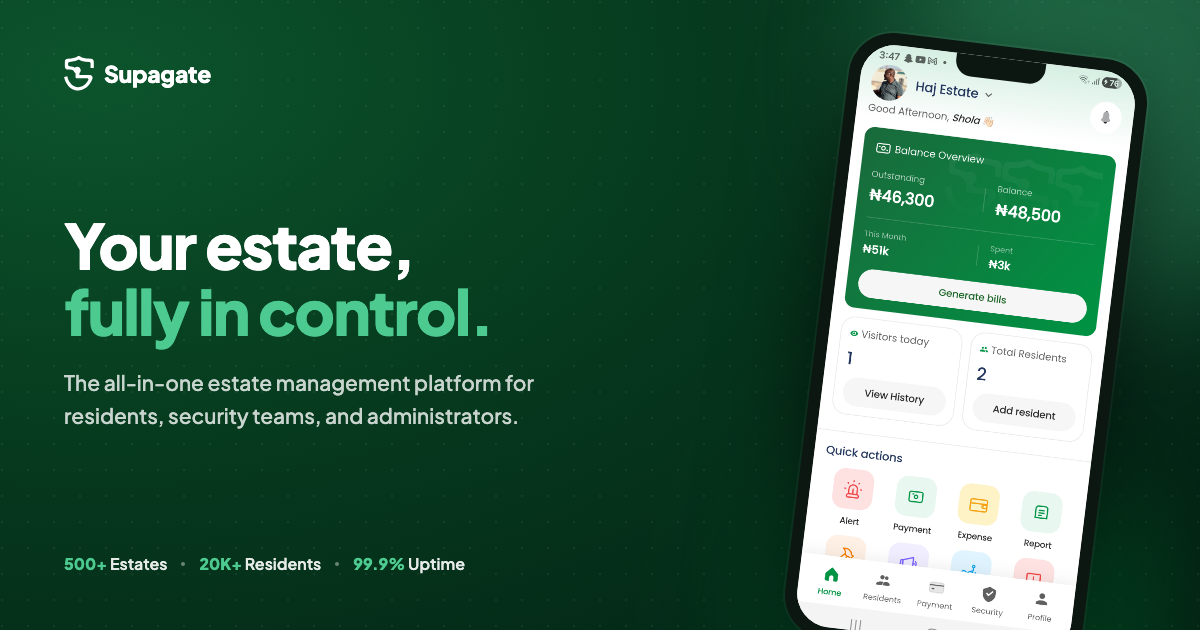
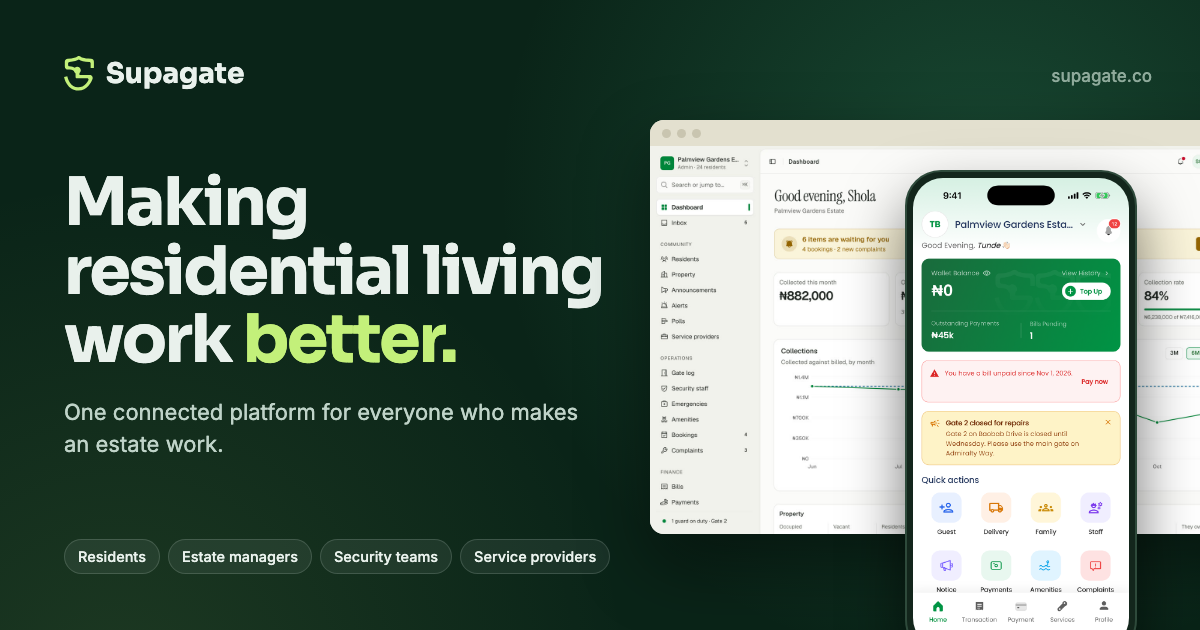
feat: update Open Graph and Twitter card images to version 2 across multiple pages

diff --git a/index.html b/index.html
@@ -13,12 +13,12 @@
     <meta property="og:url" content="https://supagate.co/" />
     <meta property="og:title" content="Supagate — Making Residential Living Work Better" />
     <meta property="og:description" content="Supagate connects residents, estate managers, security teams and service providers on one platform, making everyday community living more convenient, organised and secure." />
-    <meta property="og:image" content="https://supagate.co/og-image.png" />
+    <meta property="og:image" content="https://supagate.co/og-image.png?v=2" />
 
     <meta name="twitter:card" content="summary_large_image" />
     <meta name="twitter:title" content="Supagate — Making Residential Living Work Better" />
     <meta name="twitter:description" content="Supagate connects residents, estate managers, security teams and service providers on one platform, making everyday community living more convenient, organised and secure." />
-    <meta name="twitter:image" content="https://supagate.co/og-image.png" />
+    <meta name="twitter:image" content="https://supagate.co/og-image.png?v=2" />
 
     <link rel="preconnect" href="https://fonts.googleapis.com" />
     <link rel="preconnect" href="https://fonts.gstatic.com" crossorigin />

diff --git a/residents.html b/residents.html
@@ -13,12 +13,12 @@
     <meta property="og:url" content="https://supagate.co/residents" />
     <meta property="og:title" content="For Residents — Supagate" />
     <meta property="og:description" content="Invite guests, get gate notifications, pay community dues, report concerns and stay informed — Supagate makes everyday living in your community easier." />
-    <meta property="og:image" content="https://supagate.co/og-image.png" />
+    <meta property="og:image" content="https://supagate.co/og-image.png?v=2" />
 
     <meta name="twitter:card" content="summary_large_image" />
     <meta name="twitter:title" content="For Residents — Supagate" />
     <meta name="twitter:description" content="Invite guests, get gate notifications, pay community dues, report concerns and stay informed — Supagate makes everyday living in your community easier." />
-    <meta name="twitter:image" content="https://supagate.co/og-image.png" />
+    <meta name="twitter:image" content="https://supagate.co/og-image.png?v=2" />
 
     <link rel="preconnect" href="https://fonts.googleapis.com" />
     <link rel="preconnect" href="https://fonts.gstatic.com" crossorigin />

diff --git a/about.html b/about.html
@@ -13,12 +13,12 @@
     <meta property="og:url" content="https://supagate.co/about" />
     <meta property="og:title" content="About Us — Supagate" />
     <meta property="og:description" content="About Supagate — a smart residential community platform making everyday living in managed communities safer, simpler and more connected." />
-    <meta property="og:image" content="https://supagate.co/og-image.png" />
+    <meta property="og:image" content="https://supagate.co/og-image.png?v=2" />
 
     <meta name="twitter:card" content="summary_large_image" />
     <meta name="twitter:title" content="About Us — Supagate" />
     <meta name="twitter:description" content="About Supagate — a smart residential community platform making everyday living in managed communities safer, simpler and more connected." />
-    <meta name="twitter:image" content="https://supagate.co/og-image.png" />
+    <meta name="twitter:image" content="https://supagate.co/og-image.png?v=2" />
 
     <link rel="preconnect" href="https://fonts.googleapis.com" />
     <link rel="preconnect" href="https://fonts.gstatic.com" crossorigin />

diff --git a/security-teams.html b/security-teams.html
@@ -13,12 +13,12 @@
     <meta property="og:url" content="https://supagate.co/security-teams" />
     <meta property="og:title" content="For Security Teams — Supagate" />
     <meta property="og:description" content="Digital visitor verification, electronic entry and exit records and better communication with residents and management." />
-    <meta property="og:image" content="https://supagate.co/og-image.png" />
+    <meta property="og:image" content="https://supagate.co/og-image.png?v=2" />
 
     <meta name="twitter:card" content="summary_large_image" />
     <meta name="twitter:title" content="For Security Teams — Supagate" />
     <meta name="twitter:description" content="Digital visitor verification, electronic entry and exit records and better communication with residents and management." />
-    <meta name="twitter:image" content="https://supagate.co/og-image.png" />
+    <meta name="twitter:image" content="https://supagate.co/og-image.png?v=2" />
 
     <link rel="preconnect" href="https://fonts.googleapis.com" />
     <link rel="preconnect" href="https://fonts.gstatic.com" crossorigin />

diff --git a/property-developers.html b/property-developers.html
@@ -13,12 +13,12 @@
     <meta property="og:url" content="https://supagate.co/property-developers" />
     <meta property="og:title" content="For Property Developers — Supagate" />
     <meta property="og:description" content="Introduce digital community management from day one and offer buyers a better living experience with Supagate." />
-    <meta property="og:image" content="https://supagate.co/og-image.png" />
+    <meta property="og:image" content="https://supagate.co/og-image.png?v=2" />
 
     <meta name="twitter:card" content="summary_large_image" />
     <meta name="twitter:title" content="For Property Developers — Supagate" />
     <meta name="twitter:description" content="Introduce digital community management from day one and offer buyers a better living experience with Supagate." />
-    <meta name="twitter:image" content="https://supagate.co/og-image.png" />
+    <meta name="twitter:image" content="https://supagate.co/og-image.png?v=2" />
 
     <link rel="preconnect" href="https://fonts.googleapis.com" />
     <link rel="preconnect" href="https://fonts.gstatic.com" crossorigin />

diff --git a/service-providers.html b/service-providers.html
@@ -13,12 +13,12 @@
     <meta property="og:url" content="https://supagate.co/service-providers" />
     <meta property="og:title" content="For Service Providers — Supagate" />
     <meta property="og:description" content="Plumbers, electricians, cleaners and technicians: connect with residents in managed communities through Supagate." />
-    <meta property="og:image" content="https://supagate.co/og-image.png" />
+    <meta property="og:image" content="https://supagate.co/og-image.png?v=2" />
 
     <meta name="twitter:card" content="summary_large_image" />
     <meta name="twitter:title" content="For Service Providers — Supagate" />
     <meta name="twitter:description" content="Plumbers, electricians, cleaners and technicians: connect with residents in managed communities through Supagate." />
-    <meta name="twitter:image" content="https://supagate.co/og-image.png" />
+    <meta name="twitter:image" content="https://supagate.co/og-image.png?v=2" />
 
     <link rel="preconnect" href="https://fonts.googleapis.com" />
     <link rel="preconnect" href="https://fonts.gstatic.com" crossorigin />

diff --git a/estate-managers.html b/estate-managers.html
@@ -13,12 +13,12 @@
     <meta property="og:url" content="https://supagate.co/estate-managers" />
     <meta property="og:title" content="For Estate Managers — Supagate" />
     <meta property="og:description" content="Manage residents, payments, announcements, requests, facilities and access records from one platform with Supagate." />
-    <meta property="og:image" content="https://supagate.co/og-image.png" />
+    <meta property="og:image" content="https://supagate.co/og-image.png?v=2" />
 
     <meta name="twitter:card" content="summary_large_image" />
     <meta name="twitter:title" content="For Estate Managers — Supagate" />
     <meta name="twitter:description" content="Manage residents, payments, announcements, requests, facilities and access records from one platform with Supagate." />
-    <meta name="twitter:image" content="https://supagate.co/og-image.png" />
+    <meta name="twitter:image" content="https://supagate.co/og-image.png?v=2" />
 
     <link rel="preconnect" href="https://fonts.googleapis.com" />
     <link rel="preconnect" href="https://fonts.gstatic.com" crossorigin />

diff --git a/delete-account.html b/delete-account.html
@@ -13,12 +13,12 @@
     <meta property="og:url" content="https://supagate.co/delete-account" />
     <meta property="og:title" content="Delete Your Account — Supagate" />
     <meta property="og:description" content="How to delete your Supagate account and what data is retained or removed." />
-    <meta property="og:image" content="https://supagate.co/og-image.png" />
+    <meta property="og:image" content="https://supagate.co/og-image.png?v=2" />
 
     <meta name="twitter:card" content="summary_large_image" />
     <meta name="twitter:title" content="Delete Your Account — Supagate" />
     <meta name="twitter:description" content="How to delete your Supagate account and what data is retained or removed." />
-    <meta name="twitter:image" content="https://supagate.co/og-image.png" />
+    <meta name="twitter:image" content="https://supagate.co/og-image.png?v=2" />
 
     <link rel="preconnect" href="https://fonts.googleapis.com" />
     <link rel="preconnect" href="https://fonts.gstatic.com" crossorigin />

diff --git a/privacy-policy.html b/privacy-policy.html
@@ -13,12 +13,12 @@
     <meta property="og:url" content="https://supagate.co/privacy-policy" />
     <meta property="og:title" content="Privacy Policy — Supagate" />
     <meta property="og:description" content="Supagate Privacy Policy — how we collect, use, and protect your information." />
-    <meta property="og:image" content="https://supagate.co/og-image.png" />
+    <meta property="og:image" content="https://supagate.co/og-image.png?v=2" />
 
     <meta name="twitter:card" content="summary_large_image" />
     <meta name="twitter:title" content="Privacy Policy — Supagate" />
     <meta name="twitter:description" content="Supagate Privacy Policy — how we collect, use, and protect your information." />
-    <meta name="twitter:image" content="https://supagate.co/og-image.png" />
+    <meta name="twitter:image" content="https://supagate.co/og-image.png?v=2" />
 
     <link rel="preconnect" href="https://fonts.googleapis.com" />
     <link rel="preconnect" href="https://fonts.gstatic.com" crossorigin />

diff --git a/contact.html b/contact.html
@@ -13,12 +13,12 @@
     <meta property="og:url" content="https://supagate.co/contact" />
     <meta property="og:title" content="Contact Us — Supagate" />
     <meta property="og:description" content="Book a demo, ask a question or get support from the Supagate team." />
-    <meta property="og:image" content="https://supagate.co/og-image.png" />
+    <meta property="og:image" content="https://supagate.co/og-image.png?v=2" />
 
     <meta name="twitter:card" content="summary_large_image" />
     <meta name="twitter:title" content="Contact Us — Supagate" />
     <meta name="twitter:description" content="Book a demo, ask a question or get support from the Supagate team." />
-    <meta name="twitter:image" content="https://supagate.co/og-image.png" />
+    <meta name="twitter:image" content="https://supagate.co/og-image.png?v=2" />
 
     <link rel="preconnect" href="https://fonts.googleapis.com" />
     <link rel="preconnect" href="https://fonts.gstatic.com" crossorigin />

diff --git a/terms.html b/terms.html
@@ -13,12 +13,12 @@
     <meta property="og:url" content="https://supagate.co/terms" />
     <meta property="og:title" content="Terms of Service — Supagate" />
     <meta property="og:description" content="Supagate Terms of Service." />
-    <meta property="og:image" content="https://supagate.co/og-image.png" />
+    <meta property="og:image" content="https://supagate.co/og-image.png?v=2" />
 
     <meta name="twitter:card" content="summary_large_image" />
     <meta name="twitter:title" content="Terms of Service — Supagate" />
     <meta name="twitter:description" content="Supagate Terms of Service." />
-    <meta name="twitter:image" content="https://supagate.co/og-image.png" />
+    <meta name="twitter:image" content="https://supagate.co/og-image.png?v=2" />
 
     <link rel="preconnect" href="https://fonts.googleapis.com" />
     <link rel="preconnect" href="https://fonts.gstatic.com" crossorigin />
